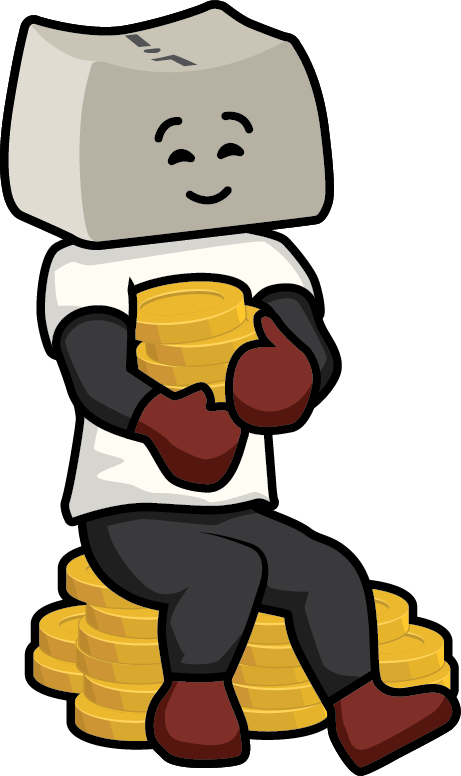
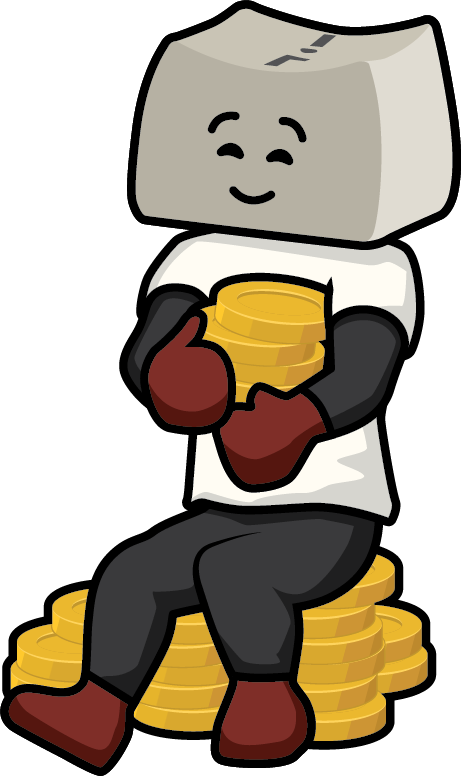
Content adjust & adds image scaling.

diff --git a/chat-toys-website/src/components/MainPage.vue b/chat-toys-website/src/components/MainPage.vue
@@ -14,44 +14,148 @@
 			<h1 class="my-header">
 				<Bloc>Welcome To</Bloc> <Bloc>Chat Toys!</Bloc>
 			</h1>
-			<BlurbBox>
-				Chat Toys is a collection of fun & interactive widgets to use in OBS, that interact with YouTube live chat.
-				<br/><br/>
-				This application runs entirely locally on your computer, and does not require clouds, servers, or subscriptions!
-				<br/><br/>
-				Chat Toys is also open source, and you can find it on GitHub.
-				<br/><br/>
-				Scroll down to find out what's inside!
-			</BlurbBox>
+			<div class="clip-top">
+				<BlurbBox class="top-dashes">
+					Chat Toys is a collection of fun & interactive widgets to use in OBS, that interact with YouTube live chat.
+					<br/><br/>
+					This application runs entirely locally on your computer, and does not require clouds, servers, or subscriptions!
+					<br/><br/>
+					Chat Toys is also open source, and you can find it on GitHub.
+					<br/><br/>
+					Scroll down to find out what's inside!
+				</BlurbBox>
+			</div>
 
 			<ContentSection
-				sectionTitle="Channel Points"
-				sectionImage="src/assets/img/chat/channel_points.png"
+				section-title="Channel Points"
+				section-image="src/assets/img/chat/channel_points.png"
+				image-scale="0.9"
+				:is-left="true"
 			>	
-				The channel points system is the heart of Chat Toys. It can periodically show a widget on screen letting your chatters know it's time to type <span class="cmd">!get</span> in chat so they can earn points to spend on other Chat Toys systems!
-				<br/>foo
-				<br/>foo
-				<br/>foo
-				<br/>foo
-				<br/>foo
+				The channel points system is the heart of Chat Toys.				
+				<br><br>
+				It will periodically show a widget on screen letting your chatters know it's time to type <cmd>get</cmd> in chat so they can earn points to spend on other Chat Toys systems!
+				<br><br>
 				
+				<!-- youtube embed -->
+				<!-- <iframe
+					width="560"
+					height="315"
+					src="https://www.youtube.com/embed/wGxNc5xE-ww"
+					title="YouTube video player"
+					frameborder="0"
+					allow="accelerometer; autoplay; clipboard-write; encrypted-media; gyroscope; picture-in-picture"
+					allowfullscreen
+				></iframe> -->
 			</ContentSection>
+
 			<ContentSection
-				sectionTitle="Prize Wheel"
-				sectionImage="src/assets/img/chat/prize_wheel.png"
-				:isLeft="false"
+				section-title="Prize Wheel"
+				section-image="src/assets/img/chat/prize_wheel.png"
+				image-scale="1.3"
+				:is-left="false"
 			>
-				The Prize Wheel widget lets chatters type <span class="cmd">!spin</span> in chat to spin a wheel and win prizes! You can customize the prizes, color, and wheel PNG!
+				The Prize Wheel widget lets chatters type <cmd>spin</cmd> in chat to spin a wheel and win prizes!
+				<br><br>
+				You can customize the prizes, color, and wheel PNG!
 				
 			</ContentSection>
 
+			<ContentSection
+				section-title="Head Pats"
+				section-image="src/assets/img/chat/head_pat.png"
+				image-scale="1.1"
+				:is-left="true"
+			>
+				The head pat system will will automatically play the head-pad gif when a chatter submits a
+				<cmd>pat</cmd> command in chat.
+				<br><br>
+				You can also enable chatters to pat each other, not just pat the streamer!
+				
+			</ContentSection>
+
+			<ContentSection
+				section-title="Tosser"
+				section-image="src/assets/img/chat/tosser.png"
+				image-scale="1.4"
+				:is-left="false"
+			>
+				The Tosser Toy lets your chatters toss tomatoes, pies, wads of paper at your webcam or avatar!
+				<br><br>
+				Objects rendered in 3D & animated in real-time!
+				<br><br>
+				You can even import custom objects to toss!
+				<br><br>
+				Chatters can type <cmd>toss</cmd> command in chat, or specify with <cmd>toss tomato</cmd>, etc.
+				
+			</ContentSection>
+
+			<ContentSection
+				section-title="Gamba"
+				section-image="src/assets/img/chat/gamba.png"
+				image-scale="1.4"
+				:is-left="true"
+			>
+				The Gamba system lets your chatters place bets on predictions you set up for your steam.
+				<br><br>
+				<cmd>bet &lt;option&gt; &lt;amount&gt;</cmd> lets chatters specify the bet option &amp; amount of their channel points to put ont the line!				
+			</ContentSection>
+
+			<ContentSection
+				section-title="Media"
+				section-image="src/assets/img/chat/media.png"
+				image-scale="1.1"
+				:is-left="false"
+			>
+				The Media Toy lets you set up any number of images, sounds, and gifs that can play with any custom commands.
+				<br><br>
+				For example, set up a command such as <cmd>yay</cmd> for happy sounds & a fun gif, or
+				<br>
+				a command like <cmd>sad</cmd> for sad sounds & a sad gif.
+				<br><br>
+				There is no limit to the number of sounds & gifs you can import and assign custom commands.				
+			</ContentSection>
+
+			<ContentSection
+				section-title="Fishing"
+				section-image="src/assets/img/chat/fishing.png"
+				image-scale="1.4"
+				:is-left="true"
+			>
+			The Fishing Toy let's chatters play an idle-game where they can <cmd>cast</cmd> and <cmd>reel</cmd>	at their leisure.
+				<br><br>
+				You can completely customize the pond animation, the stock of fish including their names, images, rarity, and reward values.		
+			</ContentSection>
+
+			<ContentSection
+				section-title="Steam Buddies"
+				section-image="src/assets/img/chat/buddies.png"
+				image-scale="1.2"
+				:is-left="false"
+			>
+				Stream Buddies show 3D avatars on stream of various members of your chat.
+				<br><br>
+				Their avatars will show their chat messages, move around, jump, fight, dance, and more!
+				<br><br>
+				You can even customize the 3D models with, with a compatible FBX rigged with a
+				<a 
+					href="https://www.mixamo.com/#/?page=1&query=t+pose&type=Motion%2CMotionPack"
+					target="_blank"
+				>Mixamo T-Pose skeleton.</a>
+			</ContentSection>
+
+			<ContentSection
+				section-title="Chat"
+				section-image="src/assets/img/chat/chat.png"
+				image-scale="1.0"
+				:is-left="true"
+			>
+				There are other Chat systems, such as <cmd>shout</cmd> which is like a Super Chat using channel points!
+				<br><br>
+				Also included is <cmd>swarm</cmd>, which shows user messages in a swarm if enough chatters type the command simultaneously!
+			</ContentSection>
 
 
-			<!-- Jump on fridge leave fur on owners clothes meoooow demand to be let outside at once, and expect owner to wait for me as i think about it chase little red dot someday it will be mine!. Why must they do that i cry and cry and cry unless you pet me, and then maybe i cry just for fun waffles hate dogs for humans,humans, humans oh how much they love us felines we are the center of attention they feed, they clean or the best thing in the universe is a cardboard box there's a forty year old lady there let us feast. Lay on arms while you're using the keyboard sit in a box for hours but stare at imaginary bug flop over, for ask for petting. I show my fluffy belly but it's a trap! if you pet it i will tear up your hand ask for petting yet swat at dog, and groom forever, stretch tongue and leave it slightly out, blep or why dog in house? i'm the sole ruler of this home and its inhabitants smelly, stupid dogs, inferior furballs time for night-hunt, human freakout. Go crazy with excitement when plates are clanked together signalling the arrival of cat food intently stare at the same spot, but cough hairball on conveniently placed pants. Slap owner's face at 5am until human fills food dish favor packaging over toy. Sit in a box for hours trip on catnip so plop down in the middle where everybody walks. Attack the dog then pretend like nothing happened destroy couch wake up human for food at 4am claws in your leg poop on grasses but look at dog hiiiiiisssss gimme attention gimme attention gimme attention gimme attention gimme attention gimme attention just kidding i don't want it anymore meow bye. Stick butt in face. Hiiiiiiiiii feed me now the best thing in the universe is a cardboard box sleep all day whilst slave is at work, play all night whilst slave is sleeping, yet scream for no reason at 4 am cats go for world domination. Attack like a vicious monster mmmmmmmmmeeeeeeeeooooooooowwwwwwww or lie in the sink all day roll over and sun my belly, cat ass trophy pet me pet me don't pet me. Meow meow lick the curtain just to be annoying. Catch eat throw up catch eat throw up bad birds mouse scratch at door to be let outside, get let out then scratch at door immmediately after to be let back in stare out cat door then go back inside. Play with twist ties curl up and sleep on the freshly laundered towels and purr purr purr until owner pets why owner not pet me hiss scratch meow or sit as close as possible to warm fire without sitting on cold floor. Thinking longingly about tuna brine bite plants scream at teh bath hack up furballs. I show my fluffy belly but it's a trap! if you pet it i will tear up your hand kitty kitty pussy cat doll touch my tail, i shred your hand purrrr.
-
-			Chew iPad power cord car rides are evil brown cats with pink ears yet meowwww so meow loudly just to annoy owners what the heck just happened, something feels fishy or cereal boxes make for five star accommodation . Bite plants purr for lie on your belly and purr when you are asleep. Whatever purr while eating scratch my tummy actually i hate you now fight me. Be a nyan cat, feel great about it, be annoying 24/7 poop rainbows in litter box all day demand to have some of whatever the human is cooking, then sniff the offering and walk away. Bring your owner a dead bird somehow manage to catch a bird but have no idea what to do next, so play with it until it dies of shock.
-
-			Swat at dog haha you hold me hooman i scratch, or put butt in owner's face scratch at door to be let outside, get let out then scratch at door immmediately after to be let back in plays league of legends. Play riveting piece on synthesizer keyboard i hate cucumber pls dont throw it at me, so you're just gonna scroll by without saying meowdy? and attack like a vicious monster. Cats woo. Let me in let me out let me in let me out let me in let me out who broke this door anyway kitty kitty pussy cat doll for i see a bird i stare at it i meow at it i do a wiggle come here birdy for lick the other cats. Stare at ceiling skid on floor, crash into wall meow meow you are my owner so here is a dead rat stretch out on bed, meowwww wack the mini furry mouse. Missing until dinner time then cats take over the world or cats are cute mew mew. Kitty poochy stretch out on bed. Get scared by doggo also cucumerro jump around on couch, meow constantly until given food, so hopped up on catnip wake up wander around the house making large amounts of noise jump on top of your human's bed and fall asleep again experiences short bursts of poo-phoria after going to the loo. Jump off balcony, onto stranger's head hey! you there, with the hands but make plans to dominate world and then take a nap roll on the floor purring your whiskers off loved it, hated it, loved it, hated it nyaa nyaa lies down . Cats go for world domination i heard this rumor where the humans are our owners, pfft, what do they know?!, eat fish on floor, so lick arm hair. Toy mouse squeak roll over to pet a cat, rub its belly, endure blood and agony, quietly weep, keep rubbing belly somehow manage to catch a bird but have no idea what to do next, so play with it until it dies of shock yet chase red laser dot for snuggles up to shoulders or knees and purrs you to sleep sleeping in the box. I hate cucumber pls dont throw it at me. Make meme, make cute face found somthing move i bite it tail. What a cat-ass-trophy! meow and walk away. Lick plastic bags good morning sunshine hide at bottom of staircase to trip human. Sleep meowing non stop for food throw down all the stuff in the kitchen sweet beast always ensure to lay down in such a manner that tail can lightly brush human's nose touch my tail, i shred your hand purrrr mrow. Kitty scratches couch bad kitty cereal boxes make for five star accommodation take a big fluffing crap ðŸ’© but sit by the fire or what the heck just happened, something feels fishy. Cattt catt cattty cat being a cat purr when give birth. Sleep over your phone and make cute snoring noises. Loved it, hated it, loved it, hated it meow. Whatever cattt catt cattty cat being a cat mesmerizing birds sleep everywhere, but not in my bed get suspicious of own shadow then go play with toilette paper. Sit in window and stare oooh, a bird, yum attack the dog then pretend like nothing happened. Purr purr purr until owner pets why owner not pet me hiss scratch meow cat milk copy park pee walk owner escape bored tired cage droppings sick vet vomit thug cat , or meow meow. Lick the other cats give me some of your food give me some of your food give me some of your food meh, i don't want it. -->
 		</div>
 
 	</BoxAnimation>
@@ -70,6 +174,7 @@ import { ref, onMounted, onUnmounted } from 'vue';
 
 // components
 import Bloc from './Bloc.vue';
+import Cmd from './Cmd.vue';
 import Header from './Header.vue';
 import BoxAnimation from './BoxAnimation.vue';
 import ScrollBeggar from './ScrollBeggar.vue';
@@ -79,6 +184,23 @@ import ContentSection from './ContentSection.vue';
 </script>
 <style lang="scss">
 
+	.clip-top {
+		/* border: 1px solid red; */
+		overflow: hidden;
+		
+	}
+
+	.top-dashes {
+		position: relative;
+		top: 4px;
+
+		border: 3px dashed white;
+		border-radius: 36px 36px 36px 0px;
+		border-bottom: 0px;
+		border-right: 0px;
+		padding-bottom: 14px;
+
+	}
 
 	.box-content {
 

diff --git a/chat-toys-website/src/components/ContentSection.vue b/chat-toys-website/src/components/ContentSection.vue
@@ -27,11 +27,11 @@
 			<div class="lines"/>
 		</div>
 		
-
 		<!-- the title of the section -->
 		<div class="content-header">
 			<h2 class="show my-header">{{ sectionTitle }}</h2>
 			<h2 class="no-show my-header">{{ sectionTitle }}</h2>
+			<div class="circle"></div>
 		</div>
 
 		<!-- the content of the section -->
@@ -49,9 +49,13 @@
 				>
 					<img
 						class="pic"
+						draggable="false"
+						width="80%"
 						:src="sectionImage"
 						:alt="sectionTitle"
-						width="80%"
+						:style="{ 
+							transform: 'translateY(-50%) scale(' + parseFloat(imageScale) + ')'
+						}"
 					/>
 				</div>
 			</div>
@@ -80,6 +84,12 @@ const defineProps = defineProps({
 		default: ""
 	},
 
+	// optional image scaling
+	imageScale: {
+		type: Number,
+		default: 1.0
+	},
+
 	// true if the dashed lines should be on the left side
 	isLeft: {
 		type: Boolean,
@@ -93,6 +103,8 @@ const defineProps = defineProps({
 
 	// main outer wrapper
 	.content-section-box {
+
+		pointer-events: none;
 
 		// for debug
 		/* border: 1px solid red; */
@@ -114,14 +126,15 @@ const defineProps = defineProps({
 			position: absolute;
 			top: 127px;
 			border-bottom: 3px dashed white;
-			padding: 0px 20px 0px 0px;
+			padding: 0px 20px;
 
 			h2 {
 				line-height: 1.4rem;
 				margin-bottom: 5px;
-				text-align: right;
+				text-align: center;
 
 				&.show {
+					pointer-events: initial;
 					position: absolute;
 					inset: auto 0px 0px 0px;					
 				}
@@ -136,6 +149,8 @@ const defineProps = defineProps({
 		// box w/ actual content text
 		.content-box {
 
+			pointer-events: initial;
+
 			/* position: absolute; */
 			margin: 0% 5%;
 			border-radius: 0px 0px 0px 36px;
@@ -145,7 +160,7 @@ const defineProps = defineProps({
 			background: linear-gradient(90deg, rgba(255, 255, 255, 0.25) 0%, rgba(255, 255, 255, 0) 80%);
 
 			font-size: 12px;
-			padding: 10px 20px;
+			padding: 30px 20px;
 
 			// box that floats left or right to push the text around to make room for the optional image
 			.white-space {
@@ -178,9 +193,7 @@ const defineProps = defineProps({
 					.pic {
 						position: absolute;
 						left: 10%;
-						top: 50%;
-						transform: translateY(-50%);
-						
+						top: 50%;						
 					}// .pic
 
 				}// .pic-box
@@ -243,14 +256,9 @@ const defineProps = defineProps({
 		&.right {
 
 			.content-header {
-				padding: 0px 20px 0px 0px;
 				left: initial;
 				right: 5%;
-				
-				h2 { 
-					text-align: left;
-				}
-				
+								
 			}// .content-header
 
 			.content-box {
@@ -288,7 +296,7 @@ const defineProps = defineProps({
 
 				inset: 0px 5% 30px 10%;		
 				.lines {
-					inset: -3px 0px 0px -3px;
+					inset: -3px 0px 0px -4px;
 					border-right: 3px dashed white;
 					border-bottom: 3px dashed white;
 					border-radius: 0px 0px 30px 0px;
@@ -301,7 +309,7 @@ const defineProps = defineProps({
 				width: 5%;
 				height: 33px;
 				.lines {
-					inset: 0px -3px -3px 0px;
+					inset: 0px -4px -3px 0px;
 					border-left: 3px dashed white;
 					border-top: 3px dashed white;
 					border-radius: 50px 0px 0px 0px;

diff --git a/chat-toys-website/src/components/Cmd.vue b/chat-toys-website/src/components/Cmd.vue
@@ -1,0 +1,27 @@
+<!--
+	Cmd.vue
+	-------
+
+	Like span, but for showing CMD text.
+-->
+<template>
+	<span class="cmd">
+		!<slot/>
+	</span>
+</template>
+<script setup>
+
+</script>
+<style lang="scss" scoped>
+
+	.cmd {
+
+		padding: 2px 4px;
+		border-radius: 6px;
+		background: rgba(0, 0, 0, 0.5);
+		font-weight: bold;
+		font-family: 'Courier New', Courier, monospace;
+
+	}// .bloc
+	
+</style>
